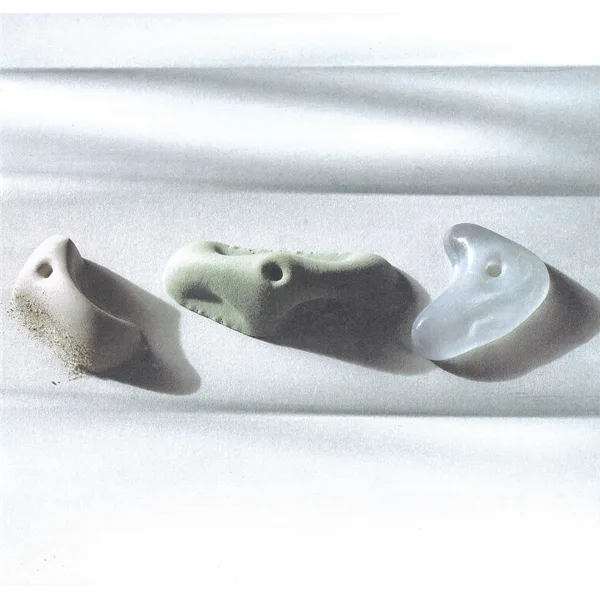
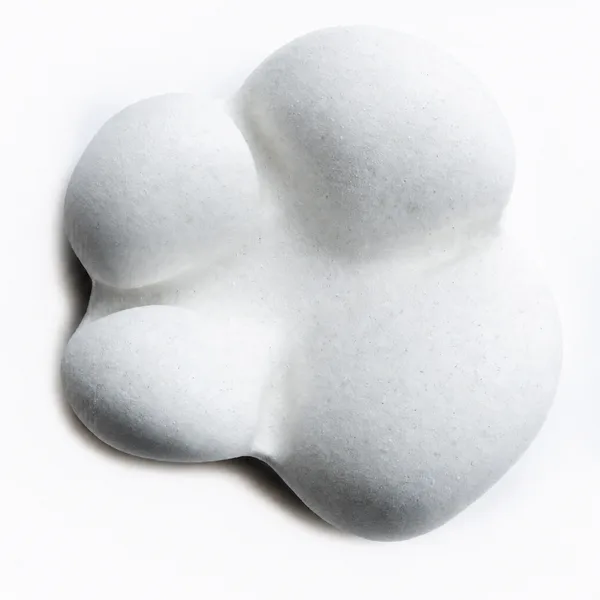
메인 메뉴 마퀴 이미지 4장 연결

diff --git a/src/data/site.ts b/src/data/site.ts
@@ -26,7 +26,7 @@ export interface Destination {
  */
 export const destinations: Destination[] = [
   { label: "GRIT", href: "/grit", image: "/img/menu/grit.webp" },
-  { label: "ARCHIVE", href: "/archive" },
+  { label: "ARCHIVE", href: "/archive", image: "/img/menu/archive.webp" },
   { label: "PROCESS", href: "/process", image: "/img/menu/process.webp" },
   { label: "ABOUT", href: "/about", image: "/img/menu/about.webp" },
 ];
